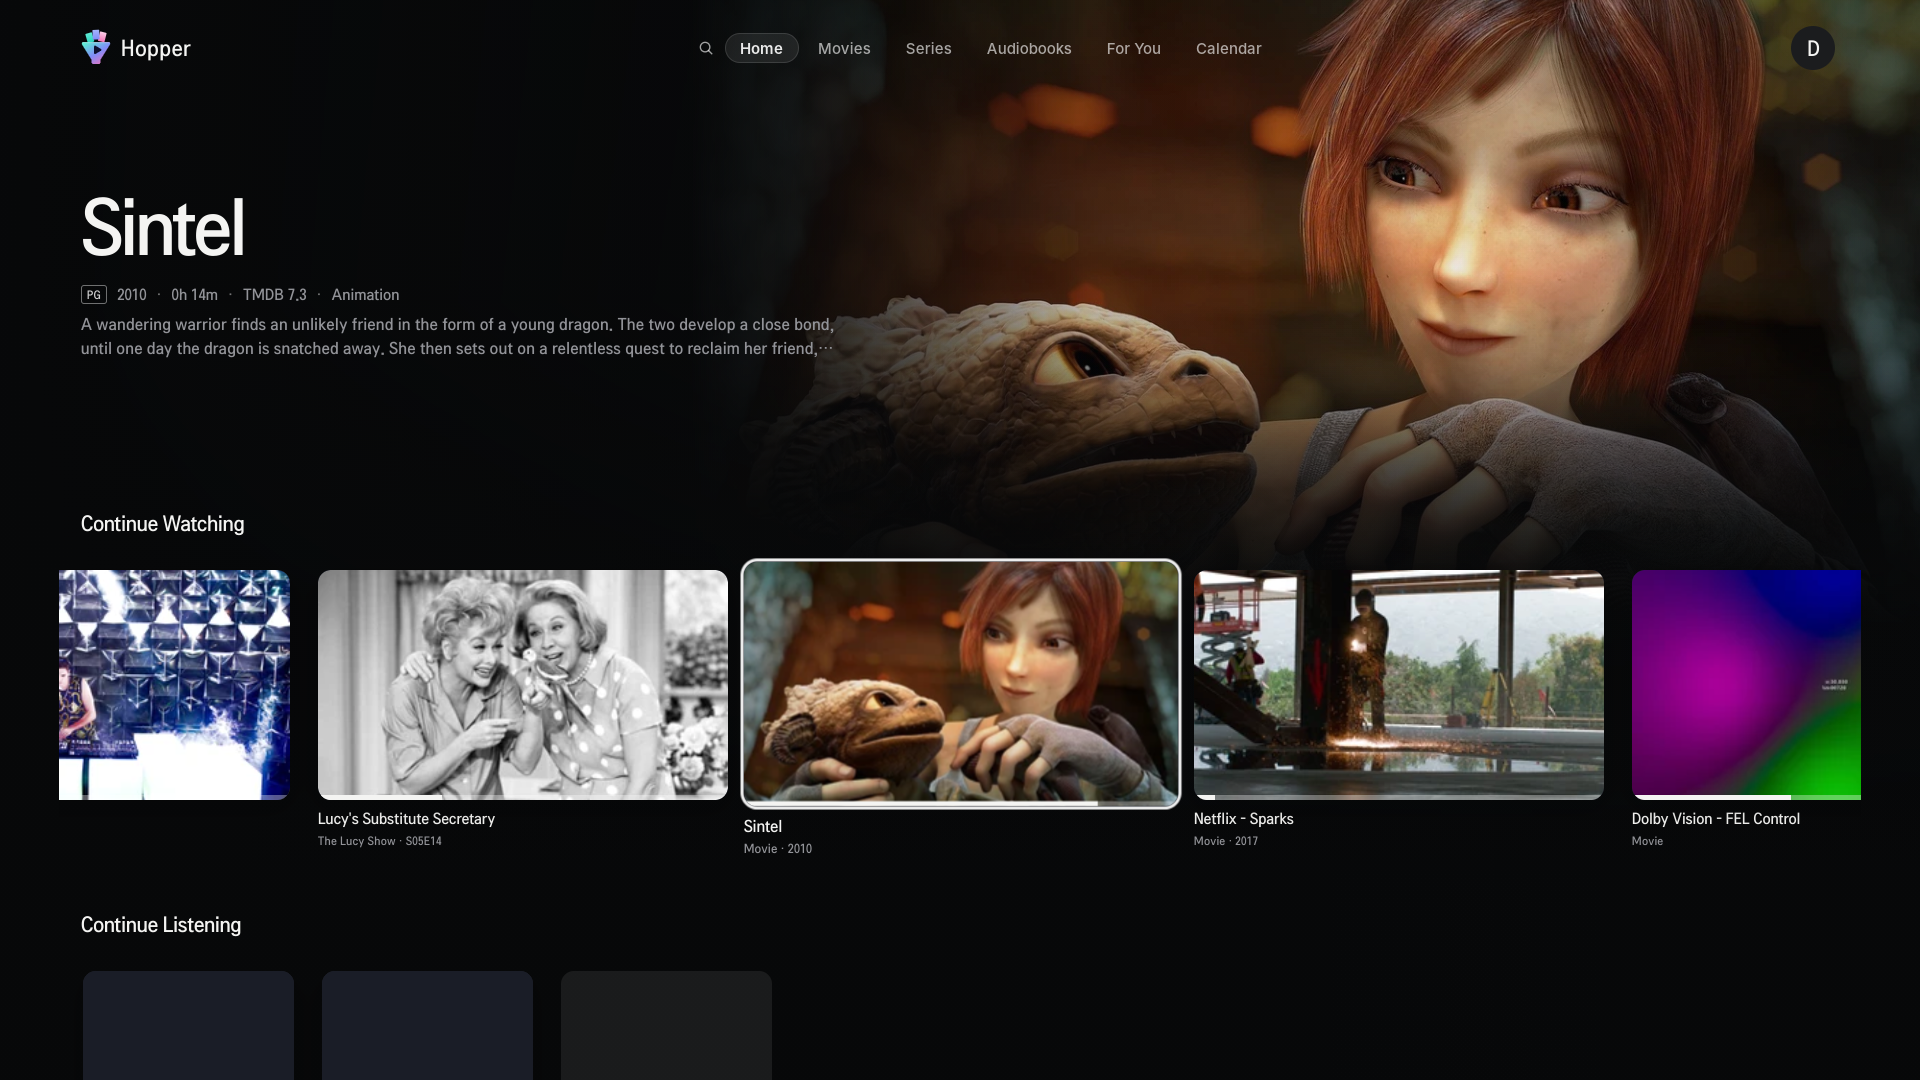
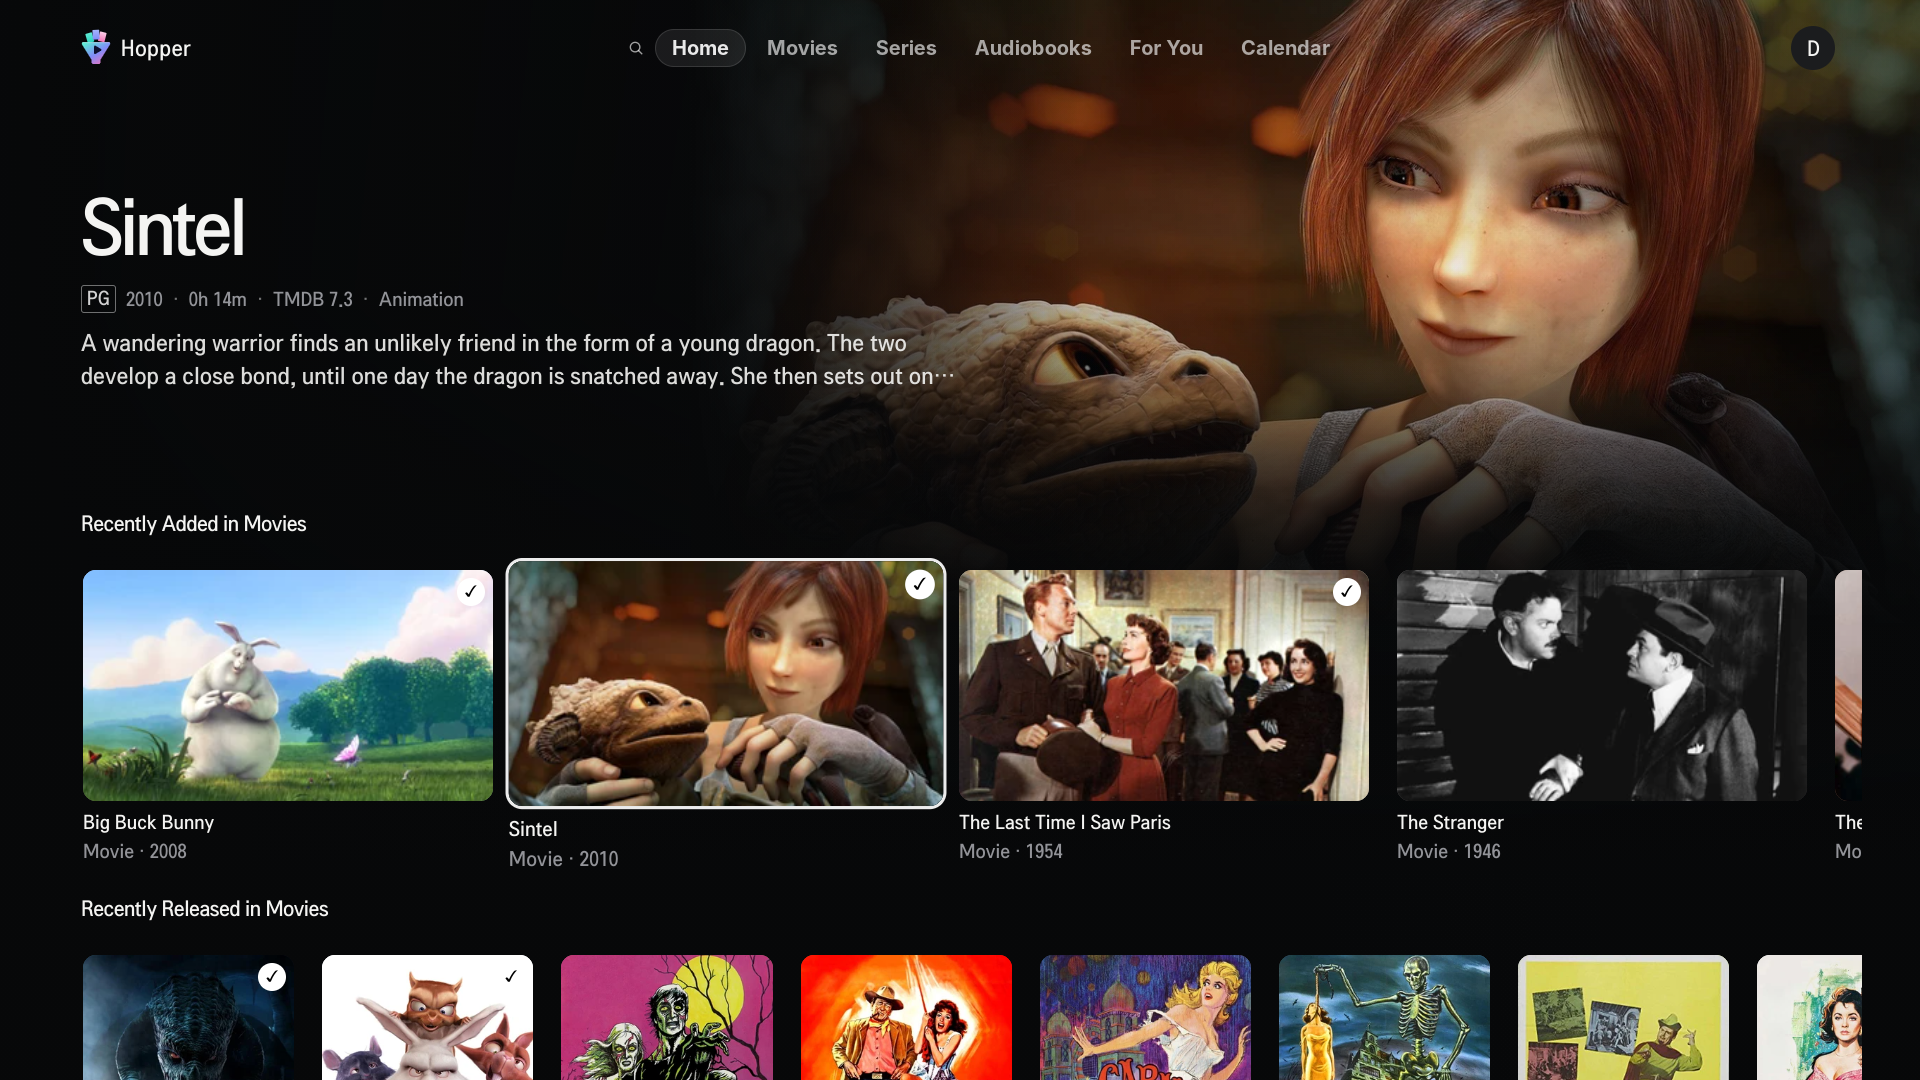
Store screenshots: fresh shots of the current app on the demo server, plus a player shot (#24)
01-04 retaken on the TV against demo.siloserver.org with the current UI; 05-player is the
TV's player controls over the same file's frame (the TV can't capture its video layer).
Listing references 01-05; brand README says how each was made. Credit the Blender
Foundation for Sintel and Big Buck Bunny (CC BY 3.0).

diff --git a/brand/README.md b/brand/README.md
@@ -53,16 +53,28 @@ brand/render.sh   # needs Google Chrome + macOS sips; also copies the app assets
 
 Taken on an LG TV (webOS 22) against the public demo server (`demo.siloserver.org`, demo/demo), so no
 personal library appears. Content is open movies (Sintel, Big Buck Bunny) and public-domain titles.
+The demo server also has clips named after Dolby, Netflix and LG; keep them out of the shots (frame
+Home on a Recently Added row, and filter Movies → Browse to a genre such as Drama).
 
 | File | Size | Screen |
 |---|---|---|
-| `01-home.png` | 1920×1080 | Home: Sintel hero, Continue Watching |
-| `02-details.png` | 1920×1080 | Sintel details: Resume, time-left ring, cast |
-| `03-movies.png` | 1920×1080 | Movies: poster row |
-| `04-series.png` | 1920×1080 | Series: The Lucy Show hero |
+| `01-home.png` | 1920×1080 | Home: Sintel hero, Recently Added in Movies |
+| `02-details.png` | 1920×1080 | Sintel details: Resume, time-left ring, version, cast, trailers |
+| `03-movies.png` | 1920×1080 | Movies → Browse filtered to Drama: sort, filter, poster grid |
+| `04-series.png` | 1920×1080 | The Lucy Show series page: Play next episode, season tab, episode row |
+| `05-player.png` | 1920×1080 | Sintel paused at 0:32 with the player controls (composite, see below) |
 
-Playback can't be captured over the inspector, because webOS plays video on a hardware layer the
-page screenshot doesn't include. To include a player shot, use the TV's own capture.
+The page shots are inspector captures (`Page.captureScreenshot`) with the app's page focused. If the
+page has lost system focus (`document.hasFocus()` false, which happens after a few idle minutes),
+focus rings don't draw: restart the app and take the shot again.
+
+webOS plays video on a hardware layer that page captures leave out, and the TV refuses screen capture
+to apps (`com.webos.service.capture` denies `executeOneShot`). `05-player.png` is therefore a
+composite of two real parts: the player UI captured on the TV with a transparent background (page and
+`.player-shell` backgrounds cleared, video hidden, `Emulation.setDefaultBackgroundColorOverride` alpha
+0), laid over the same file's frame at the same position (0:32.303), rendered by desktop Chrome with
+`object-fit: contain` at 1920×1080 as the TV shows it. The demo copy of Sintel is 564×240, so the
+picture is as soft as it is on the TV.
 
 The draft listing text is in `store/LISTING.md`.
 Check the sizes against the current LG Seller Lounge guide before you submit.

diff --git a/TRADEMARK.md b/TRADEMARK.md
@@ -25,7 +25,7 @@ The brand files are **© 2026 the Hopper maintainer, all rights reserved**. They
 | `public/icon.png`, `public/largeIcon.png`, `public/splash.png` | The app icons and launch splash |
 | The SVG paths and gradients in `src/components/HopperMark.tsx` | The mark and lockup as drawn in the app |
 
-The React code around that artwork, `brand/render.sh` and the rest of the repository stay under the AGPL. The store screenshots in `brand/store/screenshots/` show third-party content (open movies and public-domain titles). They are included only to document the app.
+The React code around that artwork, `brand/render.sh` and the rest of the repository stay under the AGPL. The store screenshots in `brand/store/screenshots/` show third-party content (open movies and public-domain titles). They are included only to document the app. Sintel and Big Buck Bunny are © Blender Foundation under CC BY 3.0.
 
 ## You don't need permission to
 

diff --git a/brand/store/LISTING.md b/brand/store/LISTING.md
@@ -36,7 +36,7 @@ stay online during review.
 |---|---|
 | Store icon 400×400 | `brand/out/store/hopper-icon-400.png` |
 | Hero / preview 1920×1080 | `brand/out/store/hopper-store-banner-1920x1080.png` |
-| Screenshots 1920×1080 | `brand/store/screenshots/01–04` |
+| Screenshots 1920×1080 | `brand/store/screenshots/01–05` |
 
 ## Before you submit
 The steps left before submission are the open issues in the [Store submission milestone](https://github.com/wjbeckett/hopper-webos/milestone/2).
